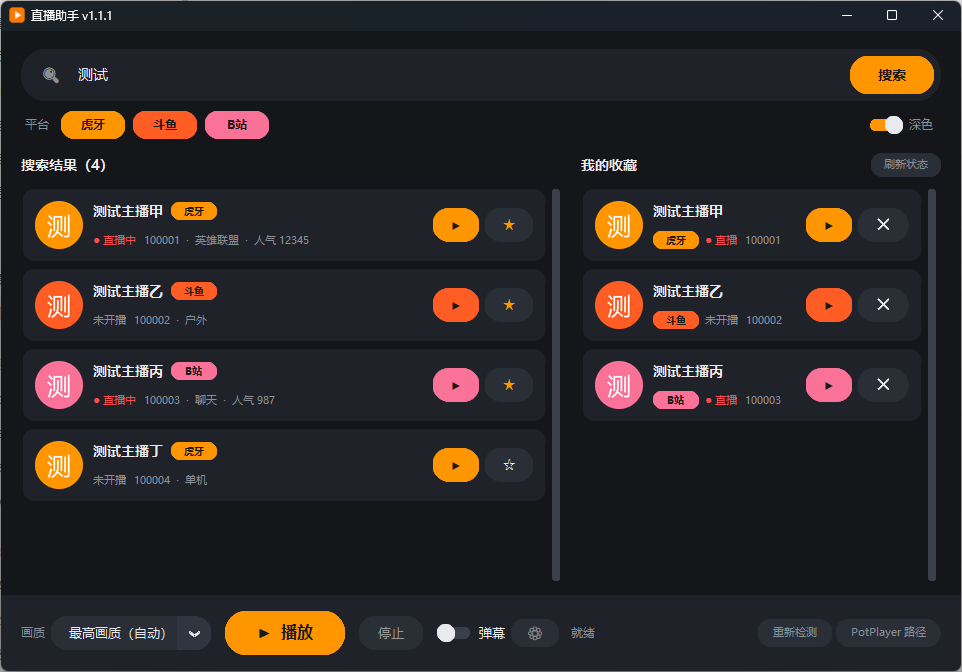
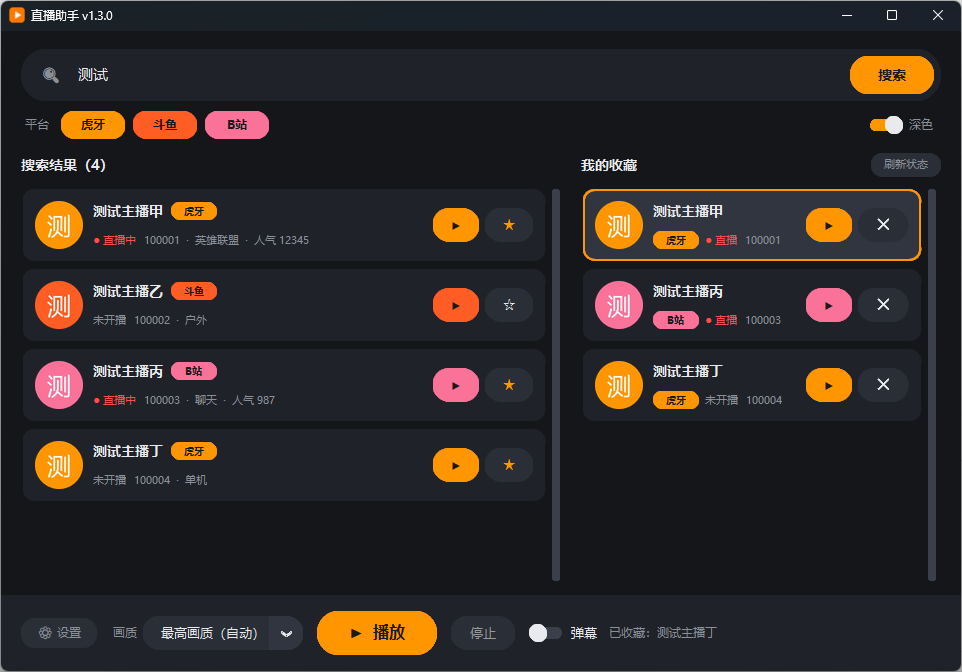
文档：v1.3.0 更新日志、README、验证状态，刷新截图

diff --git a/docs/VERIFICATION.md b/docs/VERIFICATION.md
@@ -54,3 +54,27 @@
 | 启动 4 秒后自动检查（打包版 exe） | ⏳ | 打包版只确认了能正常启动、`--selftest` 通过；4 秒后的后台检查在开发版界面测试里验证过 |
 | 代理 / 防火墙 / 企业网络下的检查与下载 | ⏳ | 未测；失败时静默并写入 `update.log` |
 | 防止仓库或 Release 被入侵 | ❌ 无法防 | SHA256SUMS.txt 与安装包出自同一个 Release，只能防传输损坏；安装包没有代码签名 |
+
+## 设置整理与托盘（v1.3.0）
+
+验证日期 2026-10-28。测试脚本：`test_sysset.py`（无界面逻辑，58 项）、`test_settings_ui.py`（设置窗口、关闭/托盘、记忆、刷新、备份，71 项）、`test_packaged_lifecycle.py`（**打包版 exe** 的生命周期，21 项）。原有的 `test_updater.py`（79）、`test_update_ui.py`（25）、`test_settings_autoresume.py`、`test_autoresume.py`、`test_smoke.py` 全部通过；主题切换抓帧结果与之前一致（空白帧 0、过渡 3 帧）。
+
+| 项目 | 状态 | 说明 |
+|---|---|---|
+| 设置项校验、恢复默认、备份文件校验与合并 | ✅ | 单元测试：非法值/越界/未知键被丢弃并计数，坏文件、过大文件、别的 JSON 都给明确提示；导入只补缺的收藏；备份里不含 PotPlayer 路径、窗口位置、更新记录 |
+| 设置窗口六个页面、开关/下拉/平台勾选写入配置 | ✅ | 开发版真实窗口；各页截图目视检查过（浅色 + 深色外观页） |
+| 开机自启：写入/删除启动项 | ✅ | 用**测试专用名**操作真实注册表（`HKCU\...\Run`），不动真正的 `LiveHelper` 项；界面里的开关测试用替身函数 |
+| 开机自启：从打包版界面点开关后真实写入、重新登录后真的自动运行 | ⏳ | 没在真实机器上做，避免改动使用中的系统设置 |
+| 识别"被任务管理器禁用"的启动项 | 🔶 | 按已知的注册表约定（`StartupApproved\Run` 首字节为奇数 = 已禁用）实现，用手写的字节验证；没在真实任务管理器里点过 |
+| 单实例：再次打开 → 唤起原窗口 | ✅ | 打包版 exe：第二个进程立即退出（退出码 0），原窗口仍是一个；从托盘隐藏状态下再次启动能把窗口唤起 |
+| 关到托盘 / 从托盘唤起 / 询问框 | ✅ | 打包版：点 ✕ 后窗口隐藏、进程仍在、进程里存在 pystray 的托盘窗口，唤起后撤掉；询问框用替身验证了取消/记住 |
+| 托盘图标在任务栏通知区的**实际外观**、右键菜单、单击显示 | ⏳ | 只验证了窗口和消息层面，没有目视确认图标和菜单 |
+| 关到托盘时，正在播放的画面、弹幕悬浮层是否照常 | ⏳ | 没有用真实直播验证；平滑渲染的悬浮层是独立窗口，理论上不受影响，兼容（旧）渲染的 Tk 悬浮层未验证 |
+| 开机自启待命（`--autostart`） | ✅ | 打包版：不显示窗口、托盘图标窗口存在、再次启动可显示；关闭"待命"时正常显示；待命且未装 PotPlayer 时不弹安装询问（开发版用替身验证） |
+| 记住窗口大小和位置 | ✅ | 打包版：退出时记录，重启后位置完全一致；位置跑出屏幕回到居中（单元 + 界面测试）；Tk 对负坐标（副屏在左）的写法已实测可解析 |
+| 睡眠定时 | 🔶 | 用假进程验证：开始播放时设置、手动停止取消、到点停止并提示、"不启用"不设置；没有在真实播放里等到点 |
+| 收藏自动刷新、启动时刷新开关 | ✅ | 假网络：到间隔才刷新、不叠加请求、就地更新不重建卡片；真实平台未做长时间观察 |
+| 头像缓存清理、数据文件夹 | ✅ | 缓存统计与清理有测试；"打开数据文件夹"调用系统资源管理器，未验证 |
+| 备份导出/导入的真实文件对话框 | ⏳ | 测试里把对话框替换成固定路径；功能逻辑已验证，真实对话框未点 |
+| 安装包：编译、覆盖安装、卸载清除启动项 | 🔶 | 用换了 AppId 和启动项名的脚本副本静默安装、卸载到临时目录：卸载后启动项和目录都被清除；没有用真实 AppId 在真实安装位置做 |
+| 高 DPI、多显示器、Windows 10 | ⏳ | 未验证 |

diff --git a/CHANGELOG.md b/CHANGELOG.md
@@ -4,6 +4,33 @@
 
 ---
 
+## v1.3.0 · 2026-10-28　⚙ 设置整理与托盘
+
+### ✨ 新功能
+- **统一的"设置"窗口**：播放栏最左端的 **⚙ 设置** 按钮打开，左边分类、右边内容（通用 / 播放 / 弹幕 / 外观 / 数据 / 关于），每个开关一改就生效并保存，没有"确定/取消"。原来的"弹幕设置"窗口并入其中；播放栏右侧的"重新检测""PotPlayer 路径"两个按钮搬进 设置 → 播放。
+- **开机自启**（通用）：登录 Windows 后自动运行，只写当前用户的启动项（不需要管理员权限）。可选"开机自启后只在托盘待命"：不弹出主窗口，也不会在没装 PotPlayer 时弹安装询问。开关以系统里的实际状态为准；若被"任务管理器 → 启动应用"禁用会红字提示。**仅安装版/打包版可用**，源码运行时开关为灰。
+- **关闭按钮行为**（通用）：点窗口右上角 ✕ 时可选"退出程序"（默认，和以前一样）/"最小化到托盘"/"每次询问"（询问框里可勾"以后不再询问"）。最小化到托盘后播放和弹幕照常；托盘图标单击显示主窗口，右键菜单有"显示主窗口 / 退出"。
+- **再次打开程序不会开第二份**：已经在运行（包括躲在托盘里）时，再双击图标会把原来的窗口显示出来。
+- **记住窗口大小和位置**（通用，默认开）：关闭时记录，下次启动恢复；位置已跑出屏幕（换过显示器/分辨率）则回到居中。最大化/最小化状态不记。
+- **默认搜索的平台**（通用）：搜索栏下方三个平台按钮启动时按这里的选择开关，至少保留一个。
+- **收藏状态刷新**（通用）：可关闭"启动时刷新"，也可选"每 5 / 10 / 30 分钟自动刷新"（默认不自动）。自动刷新只更新"直播中"标记，不重建列表，不打断滚动位置。
+- **睡眠定时**（播放）：开始播放后 30 分钟 / 1 / 1.5 / 2 小时自动停止，手动停止或断流自动续播不重新计时；改动对下一次播放生效。
+- **数据**：打开数据文件夹；清理头像缓存（显示张数和占用）；**导出/导入备份**（收藏和设置存成一个 JSON 文件；导入时设置覆盖、现有收藏保留只补缺的，并校验内容，坏文件有友好提示）；**恢复默认设置**（只重置设置项，收藏、PotPlayer 路径、画质选择不受影响，同时关闭开机自启）。备份里不含 PotPlayer 路径、窗口位置和更新记录。
+- **关于**：版本、检查更新（并入这里）、项目主页、第三方许可清单。
+
+### 🔧 其它
+- 新依赖 **pystray**（LGPL-3.0，托盘图标）及其依赖 six（MIT），已写入 `THIRD_PARTY_NOTICES.md` 并附许可证原文。
+- 安装包：卸载时一并清除"开机自启"写入的启动项。
+- 更新安装时程序会真正退出（不会被"关到托盘"拦住）。
+- 收藏状态刷新改为就地更新卡片，并防止同时叠加多次请求。
+- 新增测试：`test_sysset.py`（58 项，校验/注册表/窗口位置/备份/缓存/单实例/托盘）、`test_settings_ui.py`（71 项，设置窗口与关闭/托盘/记忆/刷新/备份/恢复默认）。
+
+### ⚠ 局限
+- 托盘和自启在打包版里的真实表现见 [docs/VERIFICATION.md](docs/VERIFICATION.md)；"关到托盘"时悬浮层（兼容旧渲染方式）是否随主窗口一起隐藏，以验证表为准。
+- 设置里不做"网络代理""主题色/字号""快捷键自定义"，以后再说。
+
+---
+
 ## v1.2.0 · 2026-10-28　🔔 应用内更新提醒与更新
 
 ### ✨ 新功能

diff --git a/README.md b/README.md
@@ -36,14 +36,15 @@
 - 🎚 **画质**：选中主播后查询该房间真实有的档位，显示成"原画（源码流）/ 超清 8 Mbps / 流畅 0.5 Mbps"这样的描述
 - ⭐ **收藏**：常看的主播一键播放，启动时后台刷新是否在播
 - 💬 **弹幕悬浮层**：透明、置顶、点击穿透，跟随 PotPlayer 窗口；播放栏有开关，全局快捷键 `Ctrl+Alt+D`；字号 / 透明度 / 飘过时间 / 显示区域 / 同屏上限可调
-- 🧰 **PotPlayer 检测**：启动时自动查找；没找到时征得同意后用 winget 安装，也可手动指定路径
+- 🧰 **PotPlayer 检测**：启动时自动查找；没找到时征得同意后用 winget 安装，也可在 设置 → 播放 里手动指定路径、重新检测
 - 🌗 **浅色 / 深色主题**：切换时界面就地换色，不闪黑
+- ⚙ **设置**（v1.3.0 起，播放栏左下角）：开机自启（可只在托盘待命）、关闭时最小化到托盘、记住窗口位置、默认搜索平台、收藏自动刷新、睡眠定时、清理缓存、备份导入导出、恢复默认
 - 🔔 **应用内更新**（v1.2.0 起）：启动时后台检查本仓库的最新 Release（每天最多一次，设置里可关，也可手动检查）；发现新版本只在主窗口顶部显示一条横幅，**不弹窗**。点"立即更新"并确认后才下载安装包，校验 SHA256 一致才启动安装程序。**v1.1.x 用户需要先手动安装一次 v1.2.0，之后才有这个功能。**
 
 <details>
 <summary>📸 更多截图</summary>
 
-<img src="screenshots/small.png" width="46%" alt="小窗口"> <img src="screenshots/danmaku-settings.png" width="46%" alt="弹幕设置">
+<img src="screenshots/small.png" width="46%" alt="小窗口"> <img src="screenshots/settings.png" width="46%" alt="设置窗口">
 
 </details>
 
@@ -65,7 +66,7 @@
 ## 🚀 使用
 
 1. 打开程序，输入主播名搜索（或输入房间号 / 链接），点卡片上的 ▶ 播放
-2. 想看弹幕：打开底部的"弹幕"开关，或按 `Ctrl+Alt+D`；⚙ 里调整样式
+2. 想看弹幕：打开底部的"弹幕"开关，或按 `Ctrl+Alt+D`；左下角 **⚙ 设置 → 弹幕** 里调整样式
 3. 常看的主播点 ⭐ 收藏，下次直接在右侧"我的收藏"里点播放
 
 ## ⚠ 已知限制
